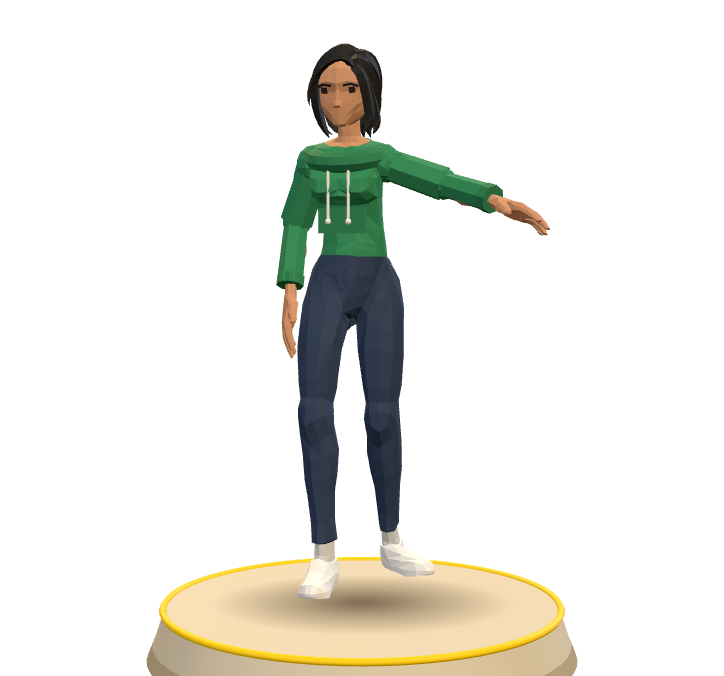
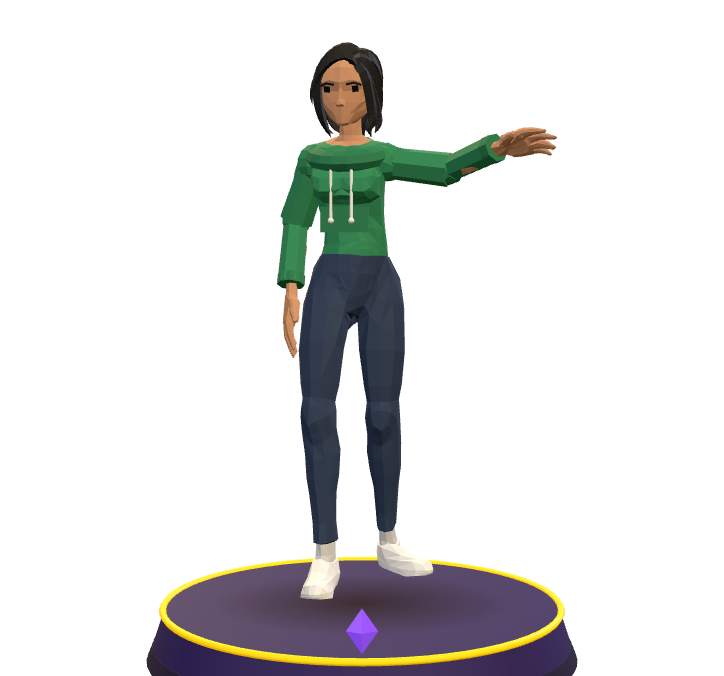
Creator redesign: tests (stage still, one student, From, house names), C2 scrolls in small steps, sim check uses Wave House; now.md

diff --git a/tests/creator/one-student.spec.js b/tests/creator/one-student.spec.js
@@ -1,0 +1,27 @@
+// QA pass 1: "two students on the stage". Quick picks, one after another before the last has
+// loaded, must leave exactly one student standing (read only: window.mzansiStudio().students).
+import { test, expect } from '@playwright/test'
+
+test('quick picks leave one student on the stage', async ({ browser }) => {
+  test.setTimeout(120000)
+  const ctx = await browser.newContext({ viewport: { width: 390, height: 844 }, hasTouch: true, isMobile: true, deviceScaleFactor: 2 })
+  const page = await ctx.newPage()
+  await page.goto('/?morning=0#/new')
+  await page.evaluate(() => localStorage.clear())
+  await page.goto('/?morning=0#/new')
+  await page.locator('.cc-stage.cc-has3d').waitFor({ timeout: 40000 })
+  const counts = []
+  for (const round of [['jacket', 'dress', 'organt'], ['shirt', 'skirt', 'hoodie']]) {
+    for (const id of round) {
+      const b = page.locator(`[data-part="outfit"][data-id="${id}"]`)
+      await b.scrollIntoViewIfNeeded()
+      await b.tap({ delay: 0 })
+    }
+    // while they load and after
+    for (let i = 0; i < 12; i++) { counts.push((await page.evaluate(() => window.mzansiStudio())).students); await page.waitForTimeout(400) }
+  }
+  console.log('students on stage over time', counts.join(' '))
+  expect(counts.at(-1), 'one student in the end').toBe(1)
+  expect(Math.max(...counts.slice(-8)), 'never two once the last pick is in').toBe(1)
+  await ctx.close()
+})

diff --git a/tests/creator/curvy.spec.js b/tests/creator/curvy.spec.js
@@ -64,7 +64,7 @@ for (const [w, h] of [[390, 844], [360, 740], [390, 664]]) {
     await page.locator('.en[data-step="look"]').waitFor()
     const curvy = page.locator('[data-part="body"][data-id="curvy"]')
     // Reach it as a thumb would: scroll the page until it is above the Next bar.
-    for (let i = 0; i < 12; i++) {
+    for (let i = 0; i < 40; i++) {
       const hit = await page.evaluate(() => {
         const b = document.querySelector('[data-part="body"][data-id="curvy"]').getBoundingClientRect()
         const foot = document.querySelector('.en-foot').getBoundingClientRect()
@@ -73,8 +73,8 @@ for (const [w, h] of [[390, 844], [360, 740], [390, 664]]) {
         return { ok: b.bottom <= foot.top && b.top >= stage.bottom && !!el?.closest('[data-part="body"][data-id="curvy"]') }
       })
       if (hit.ok) break
-      await page.mouse.wheel(0, 120)
-      await page.evaluate(() => { for (const el of document.querySelectorAll('.en-rows')) el.scrollBy(0, 120); window.scrollBy(0, 120) })
+      // (small steps: a thumb's scroll; the cards are smaller now, and 240 px steps jumped right over the band)
+      await page.evaluate(() => window.scrollBy(0, 40))
       await page.waitForTimeout(80)
     }
     const reach = await page.evaluate(() => {

diff --git a/src/ui/preview3d.js b/src/ui/preview3d.js
@@ -47,7 +47,7 @@ function setup(stage) {
 }
 
 // (read only, for tests and the report: where the turn is)
-window.mzansiStudio = () => ({ angle: turner.angle, mode: turner.mode, spin: turner.spin, now: turner.now, pose: avatar?.userData.pose || '', rigged: Boolean(avatar?.userData.rigged) })
+window.mzansiStudio = () => ({ angle: turner.angle, mode: turner.mode, spin: turner.spin, now: turner.now, pose: avatar?.userData.pose || '', rigged: Boolean(avatar?.userData.rigged), students: scene ? scene.children.filter((c) => c.userData?.look && !c.userData.disposed && c.visible).length : 0 })
 
 // (read only, for the framing test: the screen box of the student, -1 to 1 each way, and where
 // the head top and the soles are, so a test can check she fills the stage and never leaves it)

diff --git a/docs/now.md b/docs/now.md
@@ -1,9 +1,11 @@
 # Now
 
 Short and always current. Whoever finishes a step updates this (docs/team.md).
-Last updated: 7 Nov, Cursor (Thekwini is Wave House, Braam is Goldrush House, pushed, not deployed).
+Last updated: 7 Nov, Claude Code (creator redesign A on main, preview deploy only).
 
 ## Waiting for Lloyd
+- **Creator redesign, direction A "Gem stage"** (7 Nov, Lloyd's pick; on main, NOT on production): night plum and gold from the title (the title shares the palette), violet-lit stage with the gem on the plinth, small dark cards, pink Female / cyan Male, the stage no longer jumps when you scroll. QA pass 1 fixed: one student at a time, Curvy dress falls as an A-line, ORGANT legible, faces on Deep and Ebony. "Where you're from" is the nine provinces + Elsewhere in Africa + Overseas (old saves keep their city and show its province). Wave House and Goldrush House show everywhere. Screenshots before/after (390x844, 360x740) in docs/sprints/creator-redesign/ (on the PC, not committed). **Lloyd: open the Vercel preview link on your phone, then QA in chat, then your verdict before production.**
+- **For Cursor:** data/campusville/homes.json "from" needs the new answers: Gauteng, KwaZulu-Natal, Western Cape, Northern Cape (the other provinces are already there). Until then the code uses the first old city in that province (Gauteng = Joburg, KwaZulu-Natal = Durban, Western Cape = Cape Town) and Northern Cape gets the default style.
 - **House names** (7 Nov): Thekwini House is Wave House (short Wave, id still thekwini) and Braam House is Goldrush House (short Goldrush, id still braam). Old names stay on each house's was list so saves still land in the right house. Colours and vibes unchanged. Blurbs name no real city or place. The website poster alt uses Wave and Goldrush. Pushed, not deployed.
 - **Creator studio, on main, NOT deployed** (7 Nov; report docs/sprints/creator-studio/report.md, decision in docs/history.md: characters stay our own, Ara closed). In: the full 10 s turn while dancing, drag to turn, front hold on a pick, lights, plinth, shadow, clean backdrop; she fills about 78% of the stage; Fair skin; hair colour row (shaded, eyebrows follow); 4x Organt print on the creator only; Curvy that shows on every women's outfit (hidden for men); hoodie with closed sleeves; a new creator-still.png. **Lloyd: upload the screenshots in docs/sprints/creator-studio/ (on the PC, not committed: final-*, framing-*, hoodie-close-*, curvy-*, cast-*) to Claude in chat for QA, then give your phone verdict before we deploy.** Tests at main on the real GPU: avatar, cream, enrol, curvy C1-C4, studio S1-S3, framing F1, creator to Quad (creator 40 fps, Quad 39 fps).
 - **Delete the qa-live test row** (from S6): run `delete from public.smooth_reports where build = 'qa-live';` in the Supabase SQL editor (the anon key can't, and `.env` has no service-role key; add SUPABASE_SERVICE_ROLE_KEY there and S6 cleans up after itself).
